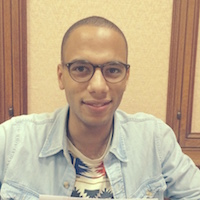
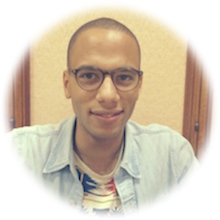
adding pic

diff --git a/blog/templates/about.html b/blog/templates/about.html
@@ -3,10 +3,10 @@
 {% block badass_content %}
 
 <h1>about</h1>
-<!-- <img id="my-picture" src="{{ url_for('static', filename='img/me(light).png') }}" /> -->
-</br></br>
-<p>I'm <b>Mouad</b>, a French Engineer from Paris, passionated about data <i class="em em-chart_with_upwards_trend"></i>, technology  <i class="em em-zap"></i> and soccer <i class="em em-soccer"></i>.
-<p><br>
+<img id="my-picture" src="{{ url_for('static', filename='img/me(light).png') }}" />
+</br></br></br></br>
+<p>I'm <b>Mouad</b>, a French Engineer from Paris, passionated about data <i class="em em-chart_with_upwards_trend"></i>, technology  <i class="em em-zap"></i><p> and soccer <i class="em em-soccer"></i>.
+<p><br></br>
 My strong background in math coupled with my passion for data/quantitative analysis have naturally pushed me to thrive in the data science field. I currently work as sr. data scientist at <b>Tesla</b>, where I enjoy enabling data-driven decicion making with very diverse datasets.
 <p><br>
 My interests are various but mainly focused around two areas :
@@ -25,7 +25,7 @@ I graduated from MINES ParisTech (the "French MIT") in 2015 where I went through
 <p><br>
 I did three internships in total (two in finance, one in tech) all focused on data analysis. I have experience working with very large data sets and collaborating with both engineering teams and product/program managers.
 <p><br>
-You can find my <a href="{{ url_for('static', filename='pdf/CV.pdf') }}">resume</a> and my "data stack" here :
+You can find <a href="{{ url_for('static', filename='pdf/CV.pdf') }}">here</a> my resume in PDF and my data stack below :
 <ul>
   <li>Programming : R, Python (Tensorflow, Numpy, Scipy, Pandas, Scikit-Learn, Keras), VBA, Bash/Unix, Git, etc.</li>
   <li>Databases : SQL, MongoDB. Exposure to Hadoop, Impala, Spark</li>

diff --git a/blog/templates/index.html b/blog/templates/index.html
@@ -10,12 +10,13 @@
 My journey started in France where I grew up but I have actually mostly worked abroad including in Silicon Valley (where I live now), Vancouver and London. Go <a href="{{ url_for('about') }}">here</a> to find my resume and more details about me.
 <br>
 <br>
-<i class="em em-mailbox"></i> If you want to contact me, please try <a href="mailto:md.hadji@gmail.com"> my email</a>.
+<i class="em em-mailbox"></i> If you want to contact me, please try my email <a href="mailto:md.hadji@gmail.com">md.hadji@gmail.com</a> or my twitter <a href="https://twitter.com/itismouad">@itismouad</a>.
 <br>
 <br>
 <div class="social-list">
 <a class="linkedin" href="http://www.linkedin.com/in/mouadhadji/"><i class="fa fa-linkedin fa-4x"></i></a>
 <a class="twitter" href="https://twitter.com/itismouad"><i class="fa fa-twitter fa-4x"></i></a>
+<a class="instagram" href="https://instagram.com/itismouad"><i class="fa fa-instagram fa-4x"></i></a>
 </div>
 
 {% endblock %}
